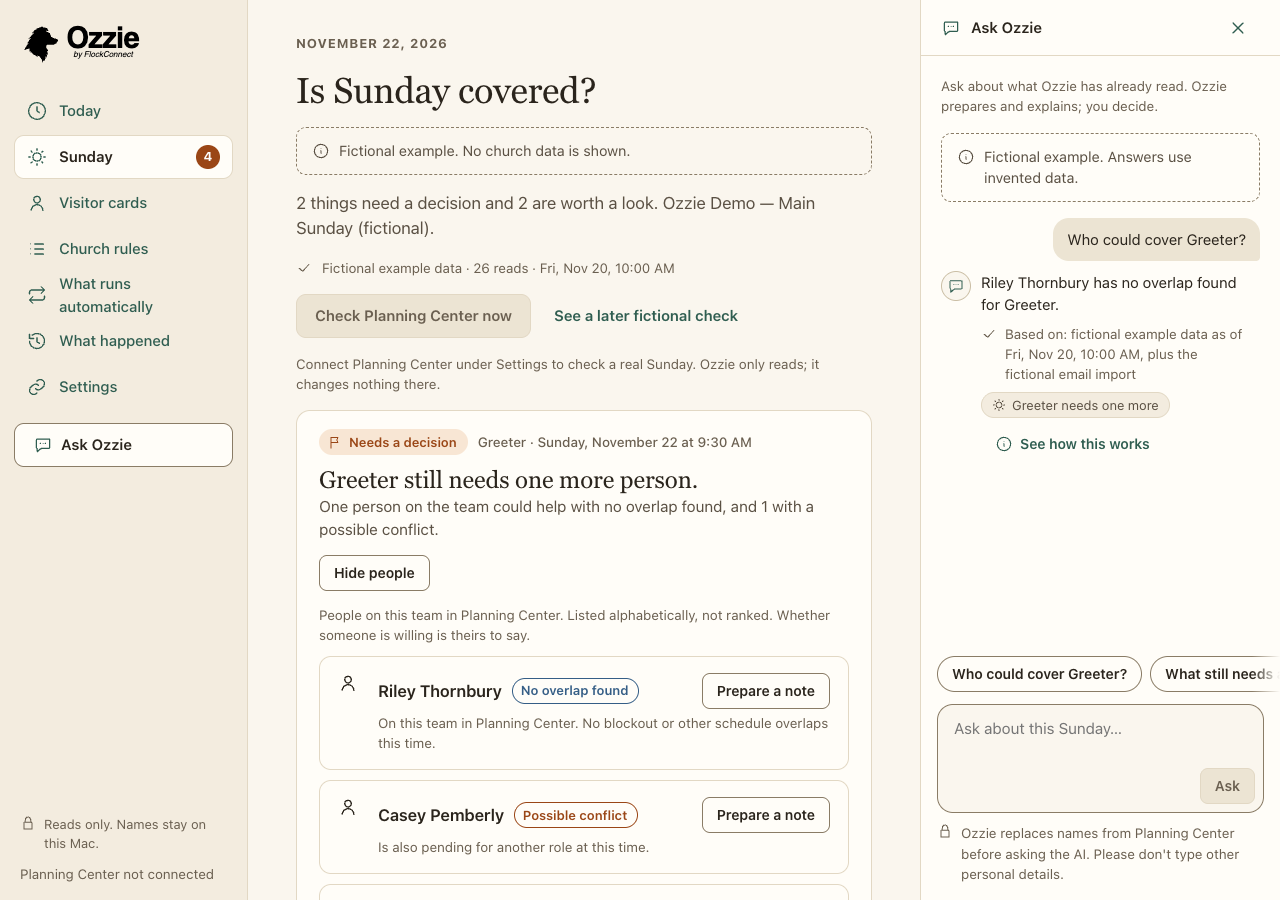
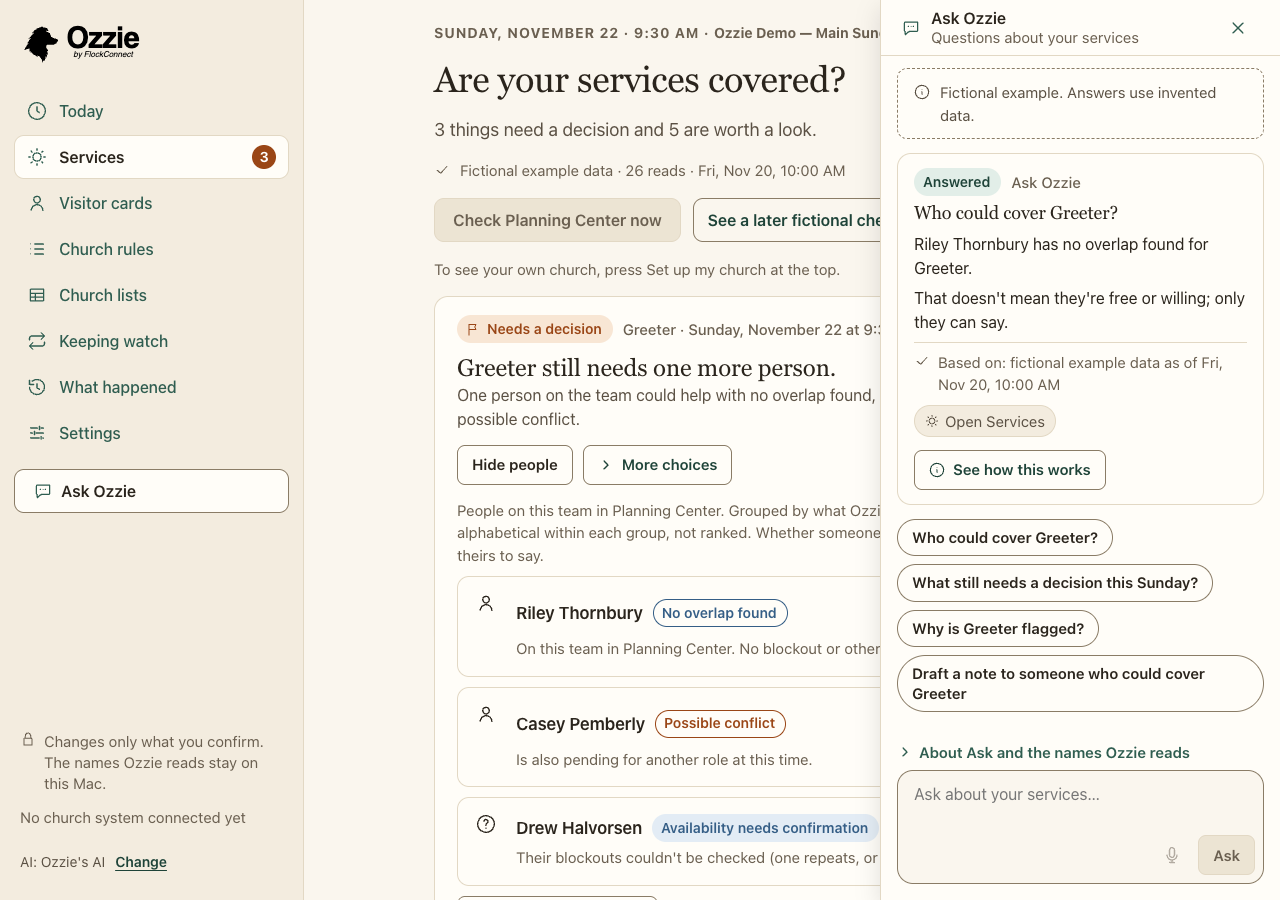
Current screenshots and demo script
Exported by tools/public-export (allowlist, self-containment check, safety scan).
Source snapshot 2026-11-21.

diff --git a/README.md b/README.md
@@ -16,11 +16,11 @@ notarized. Expect rough edges.
 These screens show the app's built-in fictional example (invented church,
 invented people). No church data is shown.
 
-![Sunday: what needs a decision, with who could help and why](docs/images/sunday-fictional.png)
+![Services: what needs a decision, with who could help and why](docs/images/services-fictional.png)
 
 ![Ask Ozzie answering from what it read; the AI saw placeholders, not names](docs/images/ask-fictional.png)
 
-![Today: a labeled fictional email and calendar import, with an instruction inside an email ignored on purpose](docs/images/today-fictional.png)
+![Today: what needs a decision, from a labeled fictional import and the services check](docs/images/today-fictional.png)
 
 ## What Ozzie does
 
